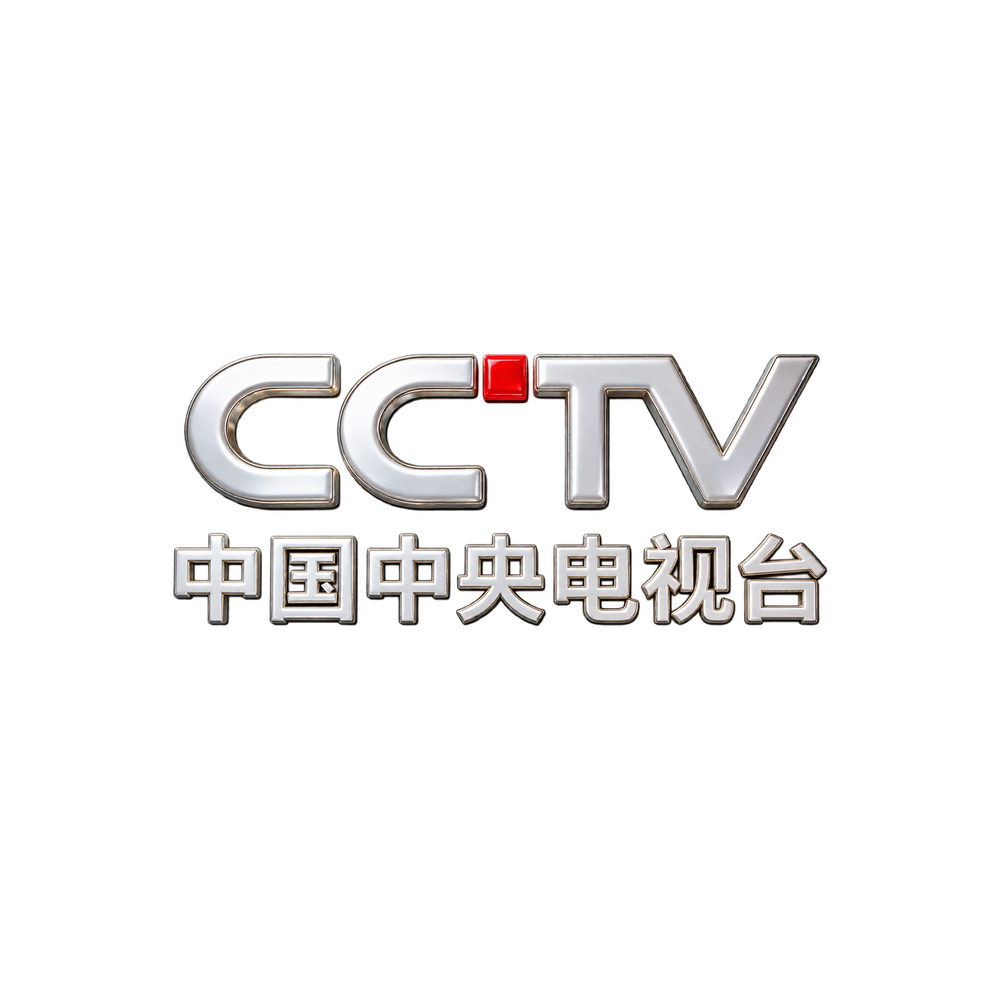
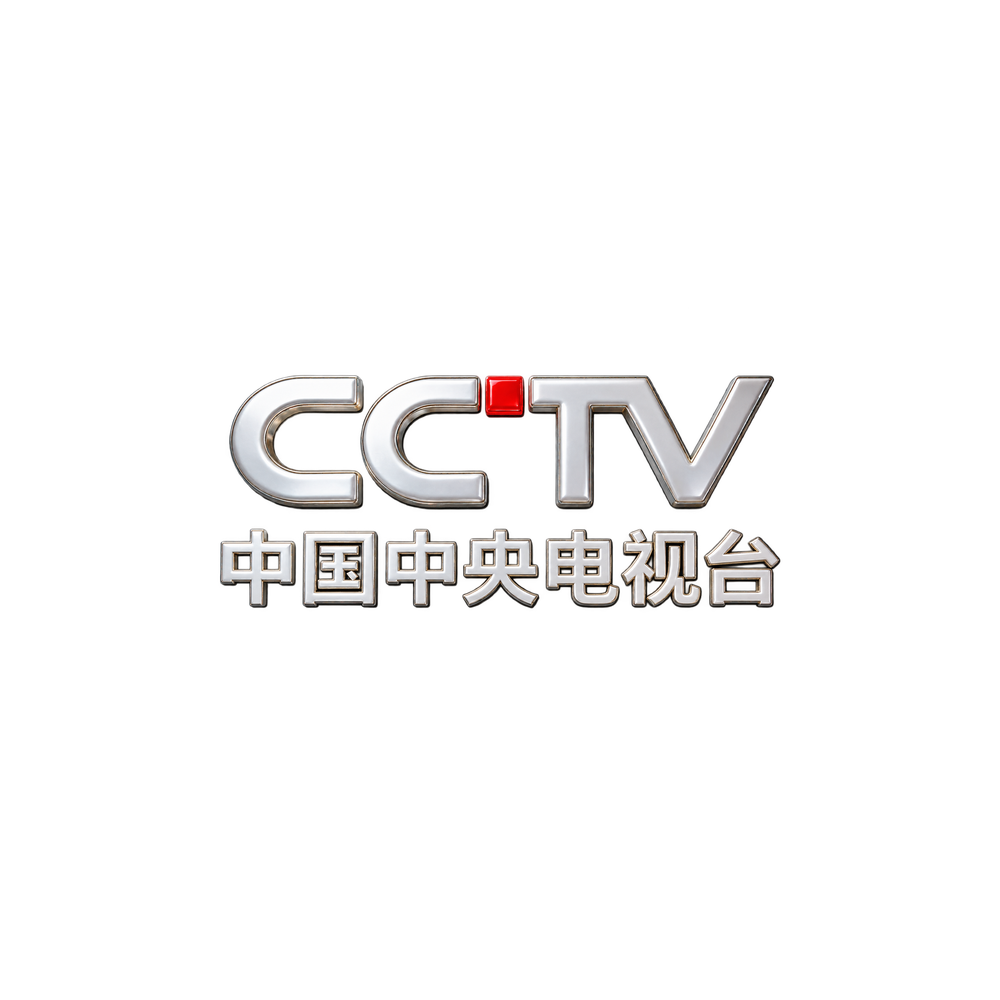
Increase transparent safe margins for all category layouts

Changed region(s): [[0.155, 0.341, 0.837, 0.651]]

diff --git a/iptv.test.js b/iptv.test.js
@@ -8,10 +8,10 @@ const MODULE_PATH = path.join(__dirname, 'iptv.js');
 const DEFAULT_M3U_URL = 'http://10.0.0.254/IPTV.m3u';
 const CCTV_LOGO = 'https://live.fanmingming.com/tv/CCTV1.png';
 const RADIO_LOGO = 'https://live.fanmingming.com/radio/中国之声.png';
-const GROUP_CCTV_ICON_URL = 'https://raw.githubusercontent.com/Hamster-Prime/rex-iptv-widget/main/icons/cctv.png?v=6';
-const GROUP_RADIO_ICON_URL = 'https://raw.githubusercontent.com/Hamster-Prime/rex-iptv-widget/main/icons/radio.png?v=6';
-const GROUP_SATELLITE_ICON_URL = 'https://raw.githubusercontent.com/Hamster-Prime/rex-iptv-widget/main/icons/satellite.png?v=6';
-const GROUP_FEATURED_ICON_URL = 'https://raw.githubusercontent.com/Hamster-Prime/rex-iptv-widget/main/icons/featured.png?v=6';
+const GROUP_CCTV_ICON_URL = 'https://raw.githubusercontent.com/Hamster-Prime/rex-iptv-widget/main/icons/cctv.png?v=7';
+const GROUP_RADIO_ICON_URL = 'https://raw.githubusercontent.com/Hamster-Prime/rex-iptv-widget/main/icons/radio.png?v=7';
+const GROUP_SATELLITE_ICON_URL = 'https://raw.githubusercontent.com/Hamster-Prime/rex-iptv-widget/main/icons/satellite.png?v=7';
+const GROUP_FEATURED_ICON_URL = 'https://raw.githubusercontent.com/Hamster-Prime/rex-iptv-widget/main/icons/featured.png?v=7';
 
 const SAMPLE_M3U = `#EXTM3U x-tvg-url="https://example.com/epg.xml"
 #EXTINF:-1 tvg-id="cctv1" tvg-name="CCTV, One" tvg-logo="${CCTV_LOGO}" group-title="央视频道",CCTV-1 综合
@@ -49,13 +49,16 @@ function expectedCompositeLogoUrl(source, width, height, logoWidth, logoHeight, 
     'lfo-center,l-end,l-end/transparent.png';
 }
 
-function expectedGroupArtworkUrl(url, width = 1200, height = 675) {
-  return 'https://images.weserv.nl/?url=' + encodeURIComponent(url)
-    + '&w=' + width + '&h=' + height + '&fit=contain&cbg=00000000&output=png';
-}
-
 function expectedGroupCoverUrl(url) {
   return url.replace('/icons/', '/icons/cover/');
+}
+
+function expectedGroupPosterUrl(url) {
+  return url.replace('/icons/', '/icons/poster/');
+}
+
+function expectedGroupBackdropUrl(url) {
+  return url.replace('/icons/', '/icons/backdrop/');
 }
 
 test('parseM3U extracts stream metadata and preserves commas in titles', () => {
@@ -116,11 +119,11 @@ test('loadList returns large category cards instead of individual channels', asy
   assert.equal(item.type, 'url');
   assert.equal(item.mediaType, undefined);
   assert.equal(item.coverUrl, expectedGroupCoverUrl(GROUP_CCTV_ICON_URL));
-  assert.equal(item.posterPath, expectedGroupArtworkUrl(GROUP_CCTV_ICON_URL, 800, 1200));
-  assert.equal(item.backdropPath, expectedGroupArtworkUrl(GROUP_CCTV_ICON_URL));
+  assert.equal(item.posterPath, expectedGroupPosterUrl(GROUP_CCTV_ICON_URL));
+  assert.equal(item.backdropPath, expectedGroupBackdropUrl(GROUP_CCTV_ICON_URL));
   assert.equal(items[1].coverUrl, expectedGroupCoverUrl(GROUP_RADIO_ICON_URL));
-  assert.equal(items[1].posterPath, expectedGroupArtworkUrl(GROUP_RADIO_ICON_URL, 800, 1200));
-  assert.equal(items[1].backdropPath, expectedGroupArtworkUrl(GROUP_RADIO_ICON_URL));
+  assert.equal(items[1].posterPath, expectedGroupPosterUrl(GROUP_RADIO_ICON_URL));
+  assert.equal(items[1].backdropPath, expectedGroupBackdropUrl(GROUP_RADIO_ICON_URL));
   assert.equal(item.videoUrl, undefined);
   assert.equal(item.genreItems, undefined);
   assert.equal(item.episodeItems, undefined);
@@ -138,7 +141,7 @@ test('module removes the top-right enumeration and keeps the beta tag', () => {
   assert.equal(modules[0].sectionMode, undefined);
   assert.equal(modules[0].cacheDuration, 300);
   assert.equal(context.WidgetMetadata.detailCacheDuration, 300);
-  assert.equal(context.WidgetMetadata.version, '1.4.6');
+  assert.equal(context.WidgetMetadata.version, '1.4.7');
   assert.equal(modules[0].params.some((param) => param.name === 'group'), false);
   assert.equal(modules[0].params[0].value, DEFAULT_M3U_URL);
 });
@@ -229,29 +232,29 @@ liveTest('real M3U exposes four category cards with the correct episode lists', 
   assert.ok(allItems.every((item) => item.genreItems === undefined));
   assert.ok(allItems.every((item) => item.playerType === 'app'));
   assert.ok(allItems.every((item) => item.coverUrl.includes('/icons/cover/')));
-  assert.ok(allItems.every((item) => item.posterPath.includes('w=800&h=1200&fit=contain&cbg=00000000')));
-  assert.ok(allItems.every((item) => item.backdropPath.includes('w=1200&h=675&fit=contain&cbg=00000000')));
+  assert.ok(allItems.every((item) => item.posterPath.includes('/icons/poster/')));
+  assert.ok(allItems.every((item) => item.backdropPath.includes('/icons/backdrop/')));
 
   const expectedGroupArtwork = {
     央视频道: [
       expectedGroupCoverUrl(GROUP_CCTV_ICON_URL),
-      expectedGroupArtworkUrl(GROUP_CCTV_ICON_URL, 800, 1200),
-      expectedGroupArtworkUrl(GROUP_CCTV_ICON_URL),
+      expectedGroupPosterUrl(GROUP_CCTV_ICON_URL),
+      expectedGroupBackdropUrl(GROUP_CCTV_ICON_URL),
     ],
     卫视频道: [
       expectedGroupCoverUrl(GROUP_SATELLITE_ICON_URL),
-      expectedGroupArtworkUrl(GROUP_SATELLITE_ICON_URL, 800, 1200),
-      expectedGroupArtworkUrl(GROUP_SATELLITE_ICON_URL),
+      expectedGroupPosterUrl(GROUP_SATELLITE_ICON_URL),
+      expectedGroupBackdropUrl(GROUP_SATELLITE_ICON_URL),
     ],
     央视精选: [
       expectedGroupCoverUrl(GROUP_FEATURED_ICON_URL),
-      expectedGroupArtworkUrl(GROUP_FEATURED_ICON_URL, 800, 1200),
-      expectedGroupArtworkUrl(GROUP_FEATURED_ICON_URL),
+      expectedGroupPosterUrl(GROUP_FEATURED_ICON_URL),
+      expectedGroupBackdropUrl(GROUP_FEATURED_ICON_URL),
     ],
     广播频道: [
       expectedGroupCoverUrl(GROUP_RADIO_ICON_URL),
-      expectedGroupArtworkUrl(GROUP_RADIO_ICON_URL, 800, 1200),
-      expectedGroupArtworkUrl(GROUP_RADIO_ICON_URL),
+      expectedGroupPosterUrl(GROUP_RADIO_ICON_URL),
+      expectedGroupBackdropUrl(GROUP_RADIO_ICON_URL),
     ],
   };
   for (const card of allItems) {

diff --git a/iptv.js b/iptv.js
@@ -3,22 +3,22 @@ var GROUP_DEFINITIONS = [
   {
     value: '央视频道',
     title: '央视频道',
-    iconUrl: 'https://raw.githubusercontent.com/Hamster-Prime/rex-iptv-widget/main/icons/cctv.png?v=6',
+    iconUrl: 'https://raw.githubusercontent.com/Hamster-Prime/rex-iptv-widget/main/icons/cctv.png?v=7',
   },
   {
     value: '卫视频道',
     title: '卫视频道',
-    iconUrl: 'https://raw.githubusercontent.com/Hamster-Prime/rex-iptv-widget/main/icons/satellite.png?v=6',
+    iconUrl: 'https://raw.githubusercontent.com/Hamster-Prime/rex-iptv-widget/main/icons/satellite.png?v=7',
   },
   {
     value: '央视精选',
     title: '央视精选',
-    iconUrl: 'https://raw.githubusercontent.com/Hamster-Prime/rex-iptv-widget/main/icons/featured.png?v=6',
+    iconUrl: 'https://raw.githubusercontent.com/Hamster-Prime/rex-iptv-widget/main/icons/featured.png?v=7',
   },
   {
     value: '广播电台',
     title: '广播频道',
-    iconUrl: 'https://raw.githubusercontent.com/Hamster-Prime/rex-iptv-widget/main/icons/radio.png?v=6',
+    iconUrl: 'https://raw.githubusercontent.com/Hamster-Prime/rex-iptv-widget/main/icons/radio.png?v=7',
   },
 ];
 
@@ -52,7 +52,7 @@ var WidgetMetadata = {
   title: 'IPTV 直播',
   description: '读取 M3U 播放列表，按分组浏览并通过详情选集播放 IPTV 频道',
   author: 'Sanite',
-  version: '1.4.6',
+  version: '1.4.7',
   requiredVersion: '0.0.1',
   detailCacheDuration: 300,
   modules: [createIptvModule()],
@@ -188,21 +188,16 @@ function normalizeBackdropUrl(url) {
   return normalizeCompositeLogoUrl(url, 1200, 500, 800, 400);
 }
 
-function normalizeGroupArtworkUrl(definition, width, height) {
-  return 'https://images.weserv.nl/?url=' + encodeURIComponent(definition.iconUrl)
-    + '&w=' + width + '&h=' + height + '&fit=contain&cbg=00000000&output=png';
-}
-
 function normalizeGroupCoverUrl(definition) {
   return definition.iconUrl.replace('/icons/', '/icons/cover/');
 }
 
 function normalizeGroupPosterUrl(definition) {
-  return normalizeGroupArtworkUrl(definition, 800, 1200);
+  return definition.iconUrl.replace('/icons/', '/icons/poster/');
 }
 
 function normalizeGroupBackdropUrl(definition) {
-  return normalizeGroupArtworkUrl(definition, 1200, 675);
+  return definition.iconUrl.replace('/icons/', '/icons/backdrop/');
 }
 
 function toVideoItem(channel, playable) {

diff --git a/README.md b/README.md
@@ -12,7 +12,7 @@ The default M3U source is `http://10.0.0.254/IPTV.m3u`. The playback device must
 
 ## Contents
 
-- `iptv.js` — widget module, version 1.4.6
+- `iptv.js` — widget module, version 1.4.7
 - `iptv.test.js` — Node.js unit and live-source integration tests
 - `icons/cctv.png` — 央视频道
 - `icons/satellite.png` — 卫视频道
